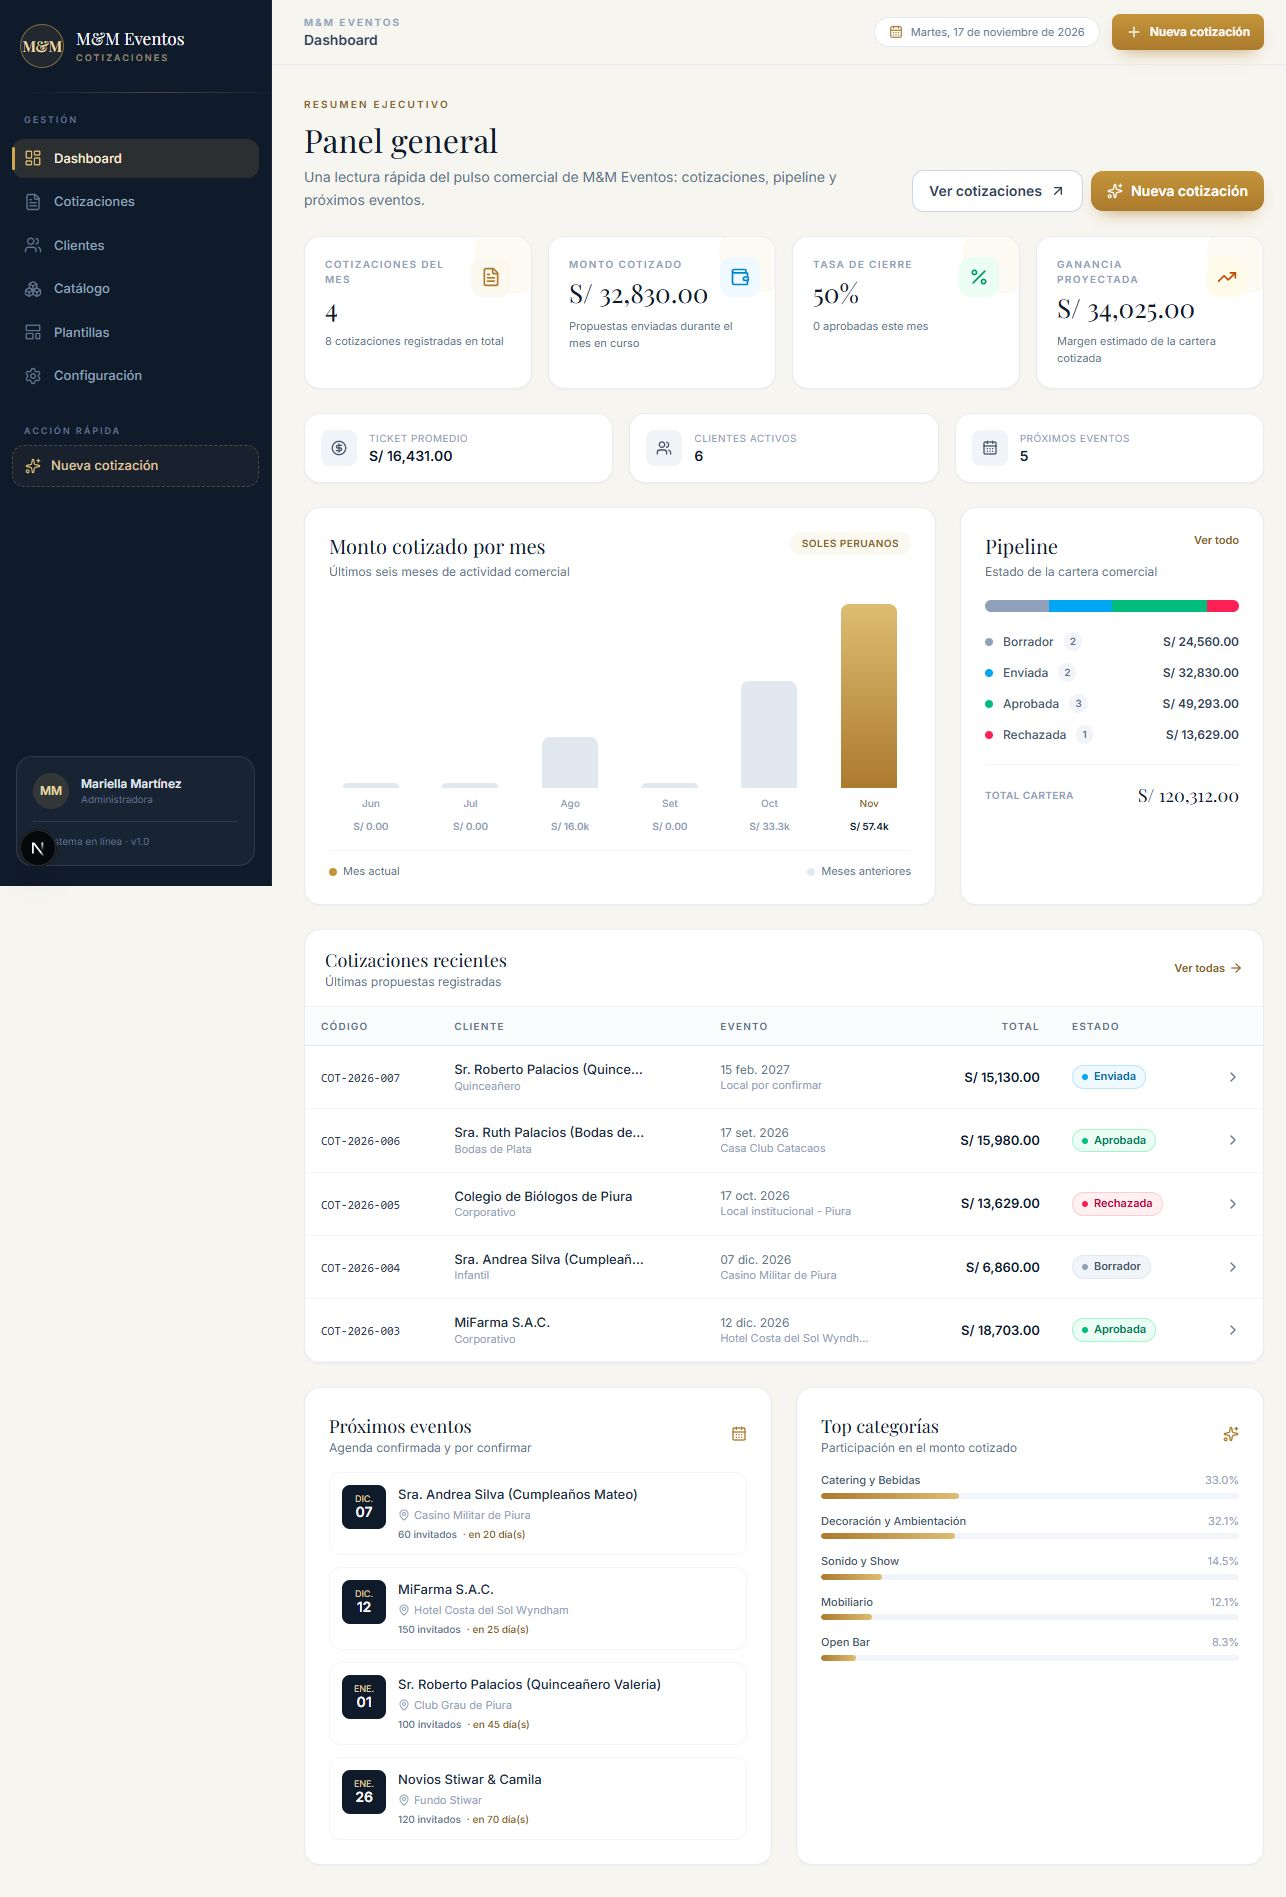
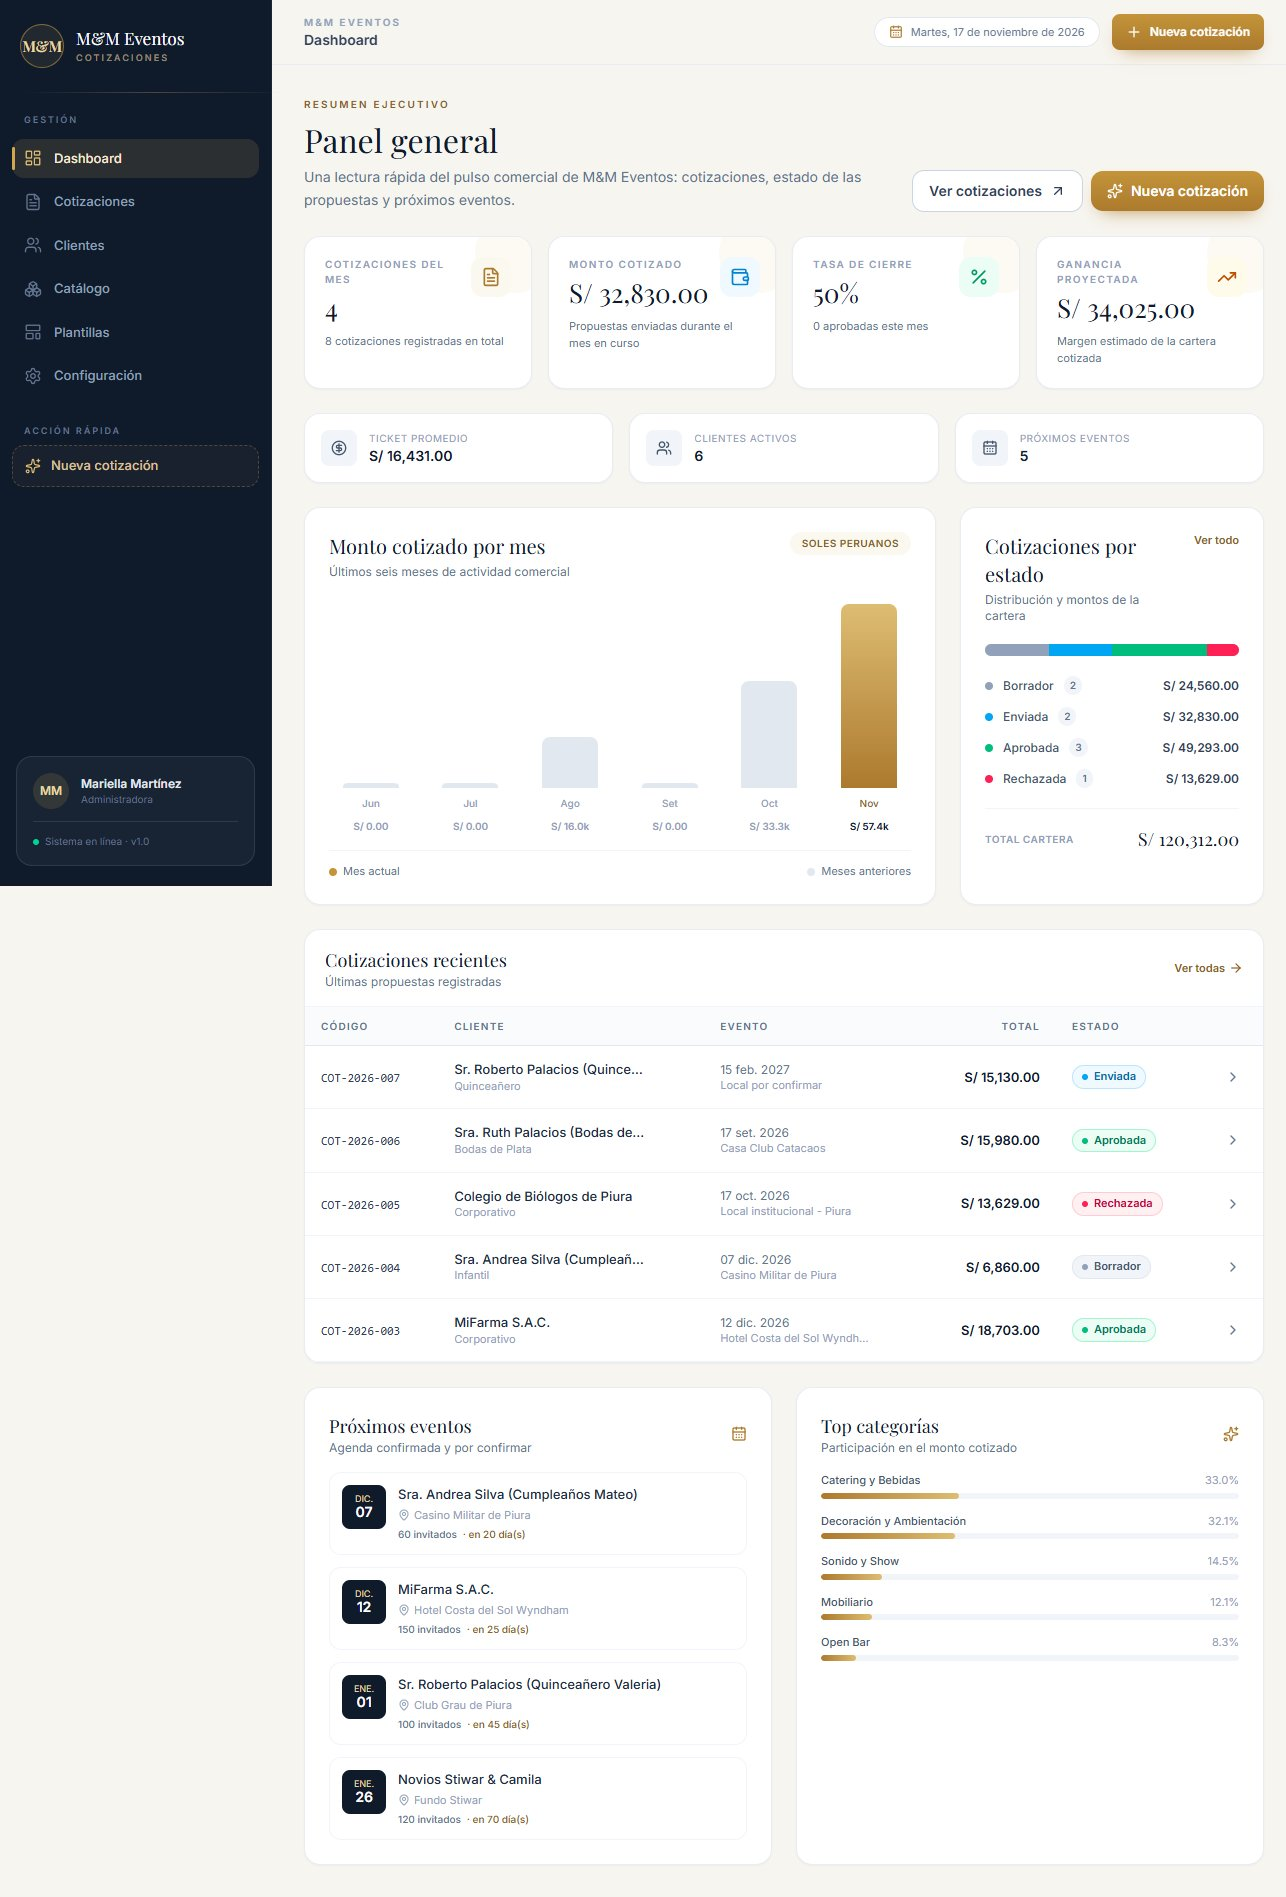
Dashboard: reemplazar 'pipeline' por lenguaje claro
- Subtitulo: estados de las propuestas
- Tarjeta: Cotizaciones por estado
- Captura y documentacion actualizadas

Changed region(s): [[0.7465, 0.2799, 0.9642, 0.4354], [0.2488, 0.0933, 0.3421, 0.1244], [0.0, 0.4354, 0.0622, 0.4665]]

diff --git a/frontend/src/app/page.tsx b/frontend/src/app/page.tsx
@@ -136,7 +136,7 @@ export default function DashboardPage() {
       <PageHeader
         eyebrow="Resumen ejecutivo"
         title="Panel general"
-        description="Una lectura rápida del pulso comercial de M&M Eventos: cotizaciones, pipeline y próximos eventos."
+        description="Una lectura rápida del pulso comercial de M&M Eventos: cotizaciones, estado de las propuestas y próximos eventos."
         actions={
           <>
             <Link href="/cotizaciones" className="btn btn-outline">
@@ -238,10 +238,10 @@ export default function DashboardPage() {
             <div className="card card-pad">
               <div className="mb-5 flex items-start justify-between gap-3">
                 <div>
-                  <h2 className="font-serif text-xl text-ink">Pipeline</h2>
-                  <p className="mt-1 text-xs text-slate-500">Estado de la cartera comercial</p>
+                  <h2 className="font-serif text-xl text-ink">Cotizaciones por estado</h2>
+                  <p className="mt-1 text-xs text-slate-500">Distribución y montos de la cartera</p>
                 </div>
-                <Link href="/cotizaciones" className="text-[11px] font-semibold text-brand-700 hover:text-brand-800">
+                <Link href="/cotizaciones" className="shrink-0 text-[11px] font-semibold text-brand-700 hover:text-brand-800">
                   Ver todo
                 </Link>
               </div>

diff --git a/README.md b/README.md
@@ -22,7 +22,7 @@ Sistema web interno para crear, versionar y dar seguimiento a las cotizaciones d
 
 ### Dashboard comercial
 - KPIs del mes: cotizaciones, monto cotizado, tasa de cierre, ganancia proyectada, ticket promedio y clientes activos.
-- Pipeline por estado (`Borrador`, `Enviada`, `Aprobada`, `Rechazada`) con cantidades y montos.
+- Cotizaciones por estado (`Borrador`, `Enviada`, `Aprobada`, `Rechazada`) con cantidades y montos.
 - Serie mensual de los últimos seis meses.
 - Próximos eventos y participación por categoría.
 - Accesos directos a cotizaciones recientes.
@@ -234,7 +234,7 @@ Al arrancar con una base vacía, el backend carga:
 | Clientes demo | 6 |
 | Cotizaciones demo | 8 |
 
-Las cotizaciones demo cubren los cuatro estados y fechas variadas para que el dashboard, el pipeline y los reportes tengan información desde el primer inicio. El catálogo se basa en los datos reales del Excel de la empresa.
+Las cotizaciones demo cubren los cuatro estados y fechas variadas para que el dashboard, los estados de cotización y los reportes tengan información desde el primer inicio. El catálogo se basa en los datos reales del Excel de la empresa.
 
 Si la base ya contiene datos, el seeder no duplica registros. Para recargar todo desde cero usa `reset-db`.
 
@@ -262,7 +262,7 @@ Base: `http://localhost:8081/api`
 
 | Método | Ruta | Descripción |
 | --- | --- | --- |
-| GET | `/dashboard` | KPIs, pipeline, serie mensual y próximos eventos |
+| GET | `/dashboard` | KPIs, cotizaciones por estado, serie mensual y próximos eventos |
 | GET | `/cotizaciones` | Listado paginado con filtros |
 | GET | `/cotizaciones/{id}` | Detalle con totales |
 | POST | `/cotizaciones` | Crear cotización |

diff --git a/INIT.md b/INIT.md
@@ -96,7 +96,7 @@ Resultados esperados en una base nueva:
 
 Checklist funcional:
 
-- [ ] El dashboard muestra KPIs y pipeline.
+- [ ] El dashboard muestra KPIs y cotizaciones por estado.
 - [ ] Se puede crear un cliente.
 - [ ] Se puede aplicar una plantilla en una cotización nueva.
 - [ ] El total, IGV y ticket por invitado se calculan.
